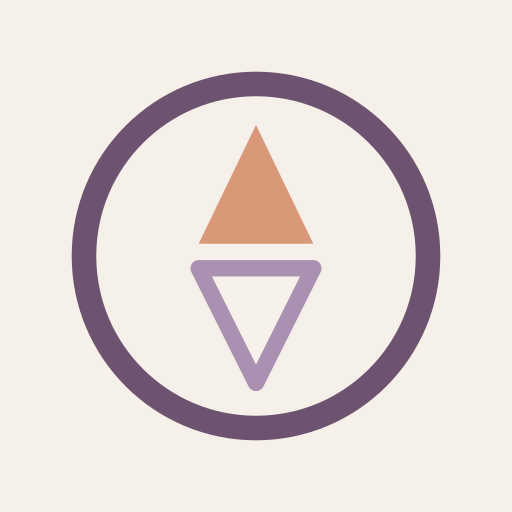
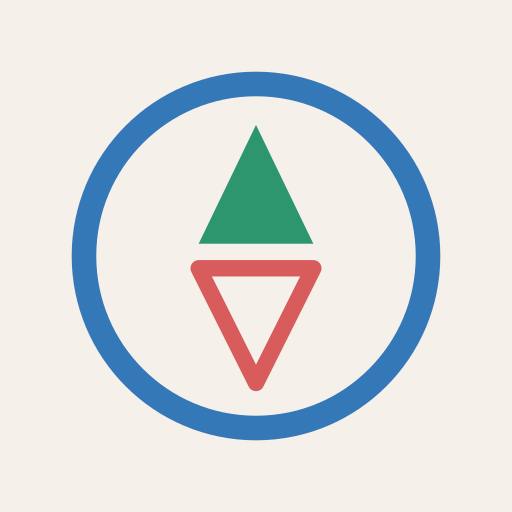
style: use requested blue ring, green north and red south compass
Apply the exact requested color arrangement to the app logo and opaque iPhone/PWA icons. Update versioned icon URLs and shell cache. All 45 tests and production build pass; financial data and main remain unchanged.

Changed region(s): [[0.125, 0.125, 0.875, 0.875], [0.375, 0.25, 0.625, 0.7812]]

diff --git a/index.html b/index.html
@@ -10,9 +10,9 @@
     <meta name="apple-mobile-web-app-capable" content="yes" />
     <meta name="apple-mobile-web-app-status-bar-style" content="default" />
     <meta name="description" content="Norte. Um gasto de cada vez." />
-    <link rel="icon" href="/norte-compass-v3.svg" type="image/svg+xml" />
-    <link rel="apple-touch-icon" sizes="180x180" href="/norte-apple-touch-v3.png" />
-    <link rel="manifest" href="/manifest.webmanifest?v=3" />
+    <link rel="icon" href="/norte-compass-v4.svg" type="image/svg+xml" />
+    <link rel="apple-touch-icon" sizes="180x180" href="/norte-apple-touch-v4.png" />
+    <link rel="manifest" href="/manifest.webmanifest?v=4" />
     <title>Norte</title>
     <link rel="preconnect" href="https://fonts.googleapis.com" />
     <link rel="preconnect" href="https://fonts.gstatic.com" crossorigin />

diff --git a/public/sw.js b/public/sw.js
@@ -1,11 +1,11 @@
 // Cache only the public shell. Financial data, auth and API requests never enter Cache Storage.
-const CACHE = "norte-shell-v3";
+const CACHE = "norte-shell-v4";
 const SHELL = [
   "/",
-  "/norte-compass-v3.svg",
-  "/norte-apple-touch-v3.png",
-  "/norte-icon-192-v3.png",
-  "/norte-icon-512-v3.png",
+  "/norte-compass-v4.svg",
+  "/norte-apple-touch-v4.png",
+  "/norte-icon-192-v4.png",
+  "/norte-icon-512-v4.png",
   "/manifest.webmanifest",
 ];
 self.addEventListener("install", (event) => {

diff --git a/norte-src/App.tsx b/norte-src/App.tsx
@@ -66,7 +66,7 @@ async function askAI(body: Record<string, unknown>) {
 function Logo() {
   return (
     <span className="brand">
-      <img src="/norte-compass-v3.svg" alt="" />
+      <img src="/norte-compass-v4.svg" alt="" />
       norte<span className="brand-dot">.</span>
     </span>
   );

diff --git a/norte-src/style.css b/norte-src/style.css
@@ -1059,11 +1059,11 @@ progress.care-progress::-moz-progress-bar {
 }
 
 .brand-dot {
-  color: #6d536f;
+  color: #3478b8;
 }
 @media (prefers-color-scheme: dark) {
   .brand-dot {
-    color: #b9a2c1;
+    color: #8db5dc;
   }
   .brand img {
     background: transparent;
